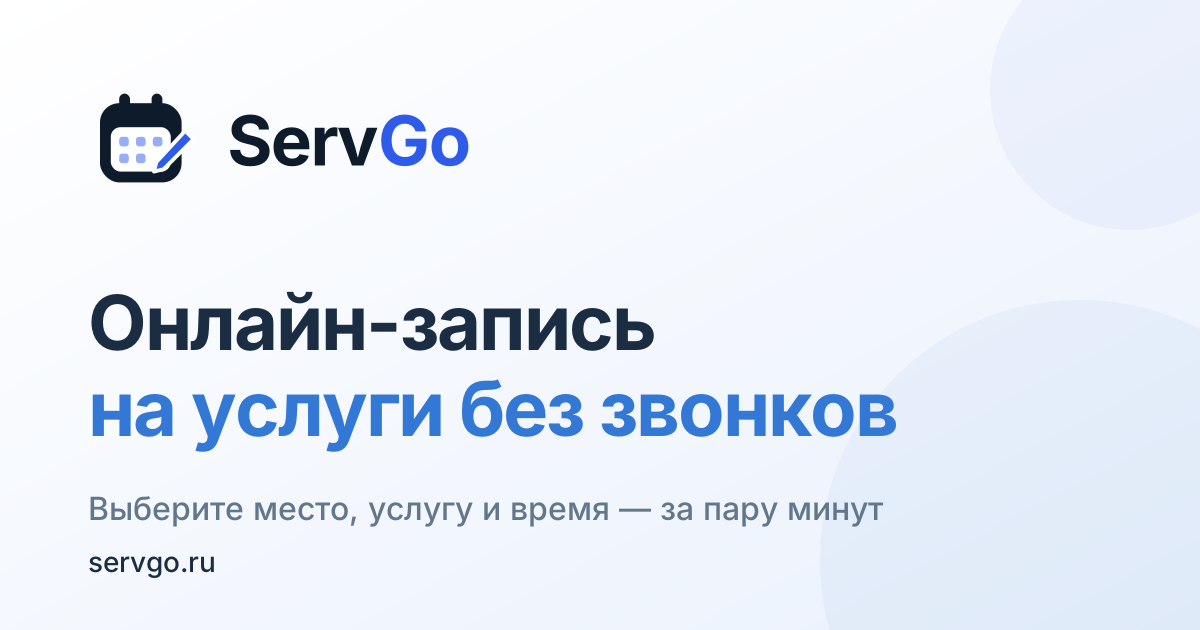
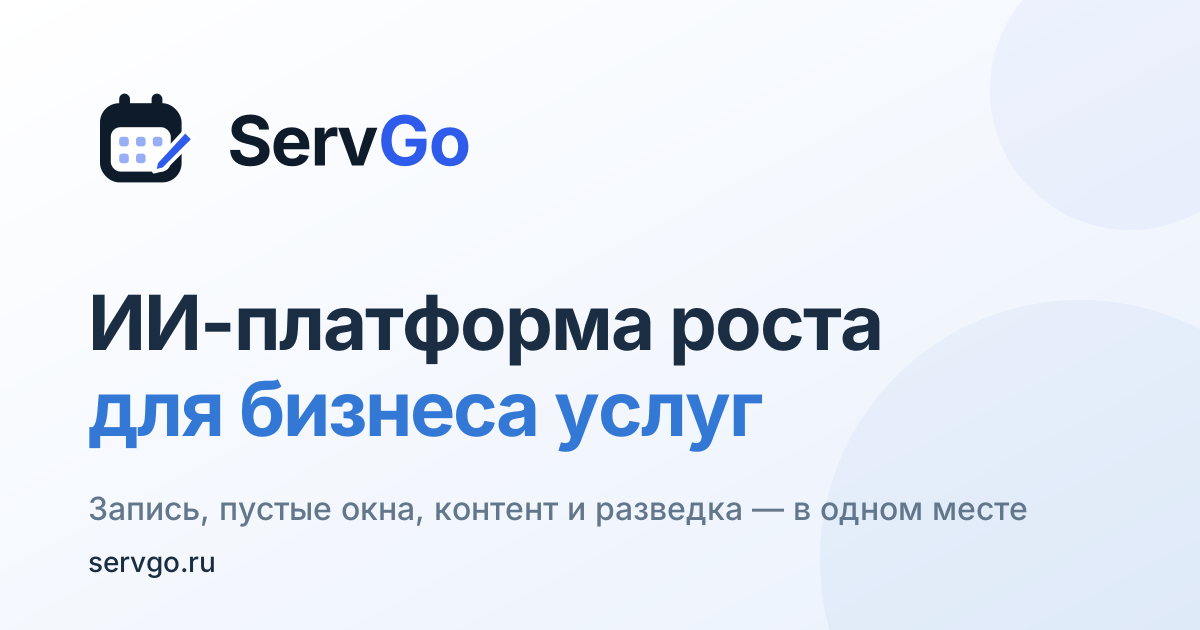
SEO: AI growth platform positioning, demo pages indexable, sitemap generator
- homepage title/description/OG/JSON-LD and crawlable text describe ServGo as an
  AI growth platform for service businesses (booking, empty slots, content,
  comment replies, competitive intelligence, growth experiments, analytics)
- homepage footer: short platform pitch above niche presentations
- demo/example business pages are indexable again (owner's decision)
- scripts/ops/servgo_sitemap.py builds sitemap.xml from the live business list,
  atomic write, keeps previous file on API errors; sitemap.xml regenerated with
  all 9 businesses until the server-side hourly job is installed
- new share image text

Claude-Session: https://claude.ai/code/session_016HQVcGasUBpwFtnksf2DjM

Changed region(s): [[0.0617, 0.4524, 0.74, 0.573], [0.0617, 0.6032, 0.7708, 0.7238], [0.0617, 0.7841, 0.8633, 0.8444]]

diff --git a/web/frontend/index.html b/web/frontend/index.html
@@ -3,17 +3,17 @@
   <head>
     <meta charset="UTF-8" />
     <meta name="yandex-verification" content="24c86f64d4a09338" />
-    <meta name="description" content="ServGo — онлайн-запись на услуги без звонков. Выберите салон или студию, услугу и удобное время за пару минут." />
+    <meta name="description" content="ServGo — онлайн-запись без звонков и ИИ-платформа роста для бизнеса услуг: заполняет пустые окна, создаёт контент, отвечает клиентам и изучает конкурентов." />
     <meta name="robots" content="index, follow" />
     <meta property="og:type" content="website" />
     <meta property="og:site_name" content="ServGo" />
     <meta property="og:locale" content="ru_RU" />
-    <meta property="og:title" content="ServGo — онлайн-запись на услуги без звонков" />
-    <meta property="og:description" content="Выберите место, услугу и удобное время — запись за пару минут, напоминания о визите." />
+    <meta property="og:title" content="ServGo — ИИ-платформа роста для бизнеса услуг и онлайн-запись" />
+    <meta property="og:description" content="Онлайн-запись, заполнение пустых окон, ИИ-контент, ответы клиентам и разведка конкурентов — всё для роста бизнеса услуг в одном месте." />
     <meta property="og:image" content="https://servgo.ru/og-image.png" />
     <meta property="og:image:width" content="1200" />
     <meta property="og:image:height" content="630" />
-    <meta property="og:image:alt" content="ServGo — онлайн-запись на услуги без звонков" />
+    <meta property="og:image:alt" content="ServGo — ИИ-платформа роста для бизнеса услуг и онлайн-запись" />
     <meta name="twitter:card" content="summary_large_image" />
     <link rel="icon" type="image/svg+xml" href="/favicon.svg" />
     <meta name="viewport" content="width=device-width, initial-scale=1.0, viewport-fit=cover" />
@@ -27,7 +27,7 @@
     <!-- Не блокируем первую отрисовку, если Google Fonts медленный или недоступен. -->
     <link rel="stylesheet" href="https://fonts.googleapis.com/css2?family=Onest:wght@300;350;400;450;500;550;600;700&display=swap" media="print" onload="this.media='all'" />
     <noscript><link rel="stylesheet" href="https://fonts.googleapis.com/css2?family=Onest:wght@300;350;400;450;500;550;600;700&display=swap" /></noscript>
-    <title>ServGo — онлайн-запись на услуги без звонков</title>
+    <title>ServGo — ИИ-платформа роста для бизнеса услуг и онлайн-запись</title>
     <script src="https://telegram.org/js/telegram-web-app.js" async></script>
     <script type="application/ld+json">
       {
@@ -42,6 +42,7 @@
           {
             "@type": "Organization",
             "name": "ServGo",
+            "description": "ИИ-платформа роста для бизнеса услуг: онлайн-запись, заполнение пустых окон, контент, ответы клиентам, бизнес-разведка и аналитика.",
             "url": "https://servgo.ru/",
             "logo": "https://servgo.ru/og-image.png",
             "email": "grunvaldlab@gmail.com",
@@ -56,7 +57,8 @@
       .seo-shell h1 span{color:#3478d6}
       .seo-shell h2{font-size:18px;font-weight:600;margin:28px 0 8px}
       .seo-shell p,.seo-shell li{font-size:16px;line-height:1.5;color:#62778b;margin:0 0 8px}
-      .seo-shell ol{padding-left:22px;margin:0}
+      .seo-shell ul{padding-left:20px;margin:0}
+      .seo-shell b{color:#1b2d42;font-weight:600}
       .seo-shell a{color:#3478d6}
     </style>
   </head>
@@ -64,16 +66,21 @@
     <!-- Содержимое ниже видят поисковики и пользователи без JavaScript; React заменяет его при запуске. -->
     <div id="root">
       <main class="seo-shell">
-        <h1>Онлайн-запись <span>на услуги</span></h1>
-        <p>ServGo — сервис онлайн-записи без звонков. Выберите салон, студию или специалиста, нужную услугу и удобное время — запись займёт пару минут, а напоминание придёт заранее.</p>
-        <h2>Как записаться</h2>
-        <ol>
-          <li>Выберите место для записи на главной странице.</li>
-          <li>Отметьте услугу, специалиста и свободное время.</li>
-          <li>Подтвердите запись — перенести или отменить её можно онлайн.</li>
-        </ol>
-        <h2>ServGo для бизнеса</h2>
-        <p>Онлайн-запись для салонов красоты, барбершопов, массажных кабинетов, психологов, автосервисов и аренды: расписание сотрудников, напоминания клиентам, аналитика и предоплата.</p>
+        <h1>ИИ-платформа роста <span>для бизнеса услуг</span></h1>
+        <p>ServGo — больше, чем онлайн-запись. Это команда ИИ-помощников, которая каждый день работает на рост вашего бизнеса: приводит клиентов, заполняет расписание, ведёт соцсети и подсказывает, что делать дальше.</p>
+        <h2>Что делает ServGo</h2>
+        <ul>
+          <li><b>Онлайн-запись 24/7.</b> Клиенты записываются сами, без звонков: напоминания, перенос и предоплата — онлайн.</li>
+          <li><b>Заполняет пустые окна.</b> ИИ видит свободное время в расписании и предлагает его нужным клиентам в нужный момент.</li>
+          <li><b>Создаёт контент.</b> Посты, сценарии коротких видео и ответы на комментарии в Telegram, ВКонтакте и YouTube — голосом вашего бренда.</li>
+          <li><b>Бизнес-разведка.</b> Собирает отзывы, слабые места и цены конкурентов и превращает их в конкретные идеи для роста.</li>
+          <li><b>Эксперименты роста.</b> Ставит гипотезы, запускает, считает результат и масштабирует то, что приносит деньги.</li>
+          <li><b>Аналитика.</b> Выручка, загрузка мастеров и источники клиентов — на одном экране.</li>
+        </ul>
+        <h2>Для кого</h2>
+        <p>Салоны красоты, барбершопы, массаж, психологи, автосервисы, аренда площадок и техники — любой бизнес, который живёт записью.</p>
+        <h2>Клиентам</h2>
+        <p>Выберите место, услугу и удобное время — запись займёт пару минут, а напоминание придёт заранее. На сайте есть примеры и демо — посмотрите, как работает запись.</p>
         <p>Связаться: <a href="mailto:grunvaldlab@gmail.com">grunvaldlab@gmail.com</a>, <a href="tel:+79023911399">8 902 391-13-99</a></p>
       </main>
     </div>

diff --git a/web/frontend/src/utils/seo.ts b/web/frontend/src/utils/seo.ts
@@ -3,14 +3,9 @@
 
 export const SITE_URL = 'https://servgo.ru'
 
-export const DEFAULT_TITLE = 'ServGo — онлайн-запись на услуги без звонков'
+export const DEFAULT_TITLE = 'ServGo — ИИ-платформа роста для бизнеса услуг и онлайн-запись'
 export const DEFAULT_DESCRIPTION =
-  'ServGo — онлайн-запись на услуги без звонков. Выберите салон или студию, услугу и удобное время за пару минут.'
-
-// Примеры и демо-витрины не индексируем, чтобы не засорять выдачу.
-export function isDemoBusinessName(name?: string | null): boolean {
-  return !!name && /пример|демо|demo|example/i.test(name)
-}
+  'ServGo — онлайн-запись без звонков и ИИ-платформа роста для бизнеса услуг: заполняет пустые окна, создаёт контент, отвечает клиентам и изучает конкурентов.'
 
 function setMeta(attr: 'name' | 'property', key: string, content: string) {
   let el = document.head.querySelector<HTMLMetaElement>(`meta[${attr}="${key}"]`)

diff --git a/web/frontend/src/pages/client/BusinessPage.tsx b/web/frontend/src/pages/client/BusinessPage.tsx
@@ -4,7 +4,7 @@ import { MapPin, Phone, Clock, Navigation, DoorOpen, X, ChevronRight, ArrowRight
 import { api, type BusinessDetail, type EmployeeWithPricing } from '../../api/client'
 import { AirFrame, HeroArt } from './AirFrame'
 import { parsePhotoList, photoSrc } from './airPhotos'
-import { applySeo, isDemoBusinessName, shortText } from '../../utils/seo'
+import { applySeo, shortText } from '../../utils/seo'
 
 function linkifyText(text: string): ReactNode {
   const urlPattern = /(https?:\/\/[^\s]+|(?:vk\.com|t\.me)\/[^\s]+)/gi
@@ -104,7 +104,6 @@ export function BusinessPage() {
       path,
       title: `${business.name} — онлайн-запись | ServGo`,
       description: shortText(business.description?.trim() || fallback),
-      noindex: isDemoBusinessName(business.name),
     })
   }, [id, business, error])
 

diff --git a/web/frontend/src/pages/client/HomePage.tsx b/web/frontend/src/pages/client/HomePage.tsx
@@ -114,6 +114,10 @@ export function HomePage() {
 
           <footer className="bf-foot">
             <div className="bf-kicker">ServGo для бизнеса</div>
+            <p className="bf-foot-pitch">
+              ИИ-платформа роста для бизнеса услуг: онлайн-запись, заполнение пустых окон, контент и ответы клиентам
+              в соцсетях, разведка конкурентов и аналитика — в одном месте.
+            </p>
             <nav className="bf-chips" aria-label="Презентации ServGo по нишам">
               {nichePresentations.map((item) => (
                 <a key={item.href} href={item.href} target="_blank" rel="noopener noreferrer" className="bf-chip">{item.label}</a>

diff --git a/web/frontend/src/pages/client/booking-flow.css b/web/frontend/src/pages/client/booking-flow.css
@@ -337,6 +337,7 @@ textarea.bf-input { height: auto; min-height: 40px; resize: vertical; }
 .bf-foot { margin-top: 22px; padding-top: 4px; border-top: 1px solid var(--bf-line); }
 .bf-chips { display: flex; flex-wrap: wrap; gap: 6px; margin-top: 6px; }
 .bf-chip { display: inline-flex; align-items: center; min-height: 32px; padding: 6px 11px; border-radius: 16px; background: #f5f8fc; color: #2d4d74; font-size: 11.5px; text-decoration: none; }
+.bf-foot-pitch { margin: 8px 0 12px; color: var(--bf-soft-ink); font-size: 12.5px; line-height: 1.5; }
 .bf-contacts { display: flex; flex-direction: column; gap: 4px; margin-top: 14px; font-size: 12.5px; }
 .bf-contacts span { font-size: 10px; color: var(--bf-muted); }
 .bf-contacts a { color: var(--bf-blue-deep); text-decoration: none; font-weight: 500; }

diff --git a/scripts/ops/servgo_sitemap.py b/scripts/ops/servgo_sitemap.py
@@ -1,0 +1,81 @@
+#!/usr/bin/env python3
+"""Генерация sitemap.xml для servgo.ru из живого списка бизнесов.
+
+Запускается на сервере по cron (см. .github/workflows/servgo-sitemap-install.yml):
+берёт активные бизнесы из локального API и атомарно перезаписывает
+web/frontend/dist/sitemap.xml, который nginx отдаёт как статику.
+
+Только стандартная библиотека — запускается системным python3.
+Если API недоступен или ответ странный, существующий sitemap не трогаем.
+"""
+from __future__ import annotations
+
+import argparse
+import json
+import os
+import sys
+import tempfile
+import urllib.request
+from datetime import datetime, timezone
+from xml.sax.saxutils import escape
+
+SITE_URL = "https://servgo.ru"
+DEFAULT_API_URL = "http://127.0.0.1:8000/businesses"
+DEFAULT_OUT = "/opt/booking_bot/web/frontend/dist/sitemap.xml"
+
+
+def fetch_business_ids(api_url: str, timeout: float = 15.0) -> list[int]:
+    with urllib.request.urlopen(api_url, timeout=timeout) as resp:
+        data = json.loads(resp.read().decode("utf-8"))
+    if not isinstance(data, list):
+        raise ValueError("API returned non-list payload")
+    ids = sorted({int(item["id"]) for item in data if isinstance(item, dict) and str(item.get("id", "")).isdigit()})
+    return ids
+
+
+def build_sitemap(business_ids: list[int], today: str) -> str:
+    rows = [(f"{SITE_URL}/", "daily", "1.0")]
+    rows += [(f"{SITE_URL}/business/{bid}", "weekly", "0.8") for bid in business_ids]
+    parts = ['<?xml version="1.0" encoding="UTF-8"?>', '<urlset xmlns="http://www.sitemaps.org/schemas/sitemap/0.9">']
+    for loc, freq, prio in rows:
+        parts.append(
+            f"  <url><loc>{escape(loc)}</loc><lastmod>{today}</lastmod>"
+            f"<changefreq>{freq}</changefreq><priority>{prio}</priority></url>"
+        )
+    parts.append("</urlset>")
+    return "\n".join(parts) + "\n"
+
+
+def write_atomic(path: str, content: str) -> None:
+    directory = os.path.dirname(path) or "."
+    fd, tmp = tempfile.mkstemp(prefix=".sitemap.", dir=directory)
+    try:
+        with os.fdopen(fd, "w", encoding="utf-8") as f:
+            f.write(content)
+        os.chmod(tmp, 0o644)
+        os.replace(tmp, path)
+    except BaseException:
+        if os.path.exists(tmp):
+            os.unlink(tmp)
+        raise
+
+
+def main(argv: list[str] | None = None) -> int:
+    parser = argparse.ArgumentParser(description=__doc__)
+    parser.add_argument("--api-url", default=DEFAULT_API_URL)
+    parser.add_argument("--out", default=DEFAULT_OUT)
+    args = parser.parse_args(argv)
+
+    stamp = datetime.now(timezone.utc)
+    try:
+        ids = fetch_business_ids(args.api_url)
+    except Exception as exc:  # noqa: BLE001 — любой сбой: оставляем прежний файл
+        print(f"{stamp:%Y-%m-%dT%H:%M:%SZ} sitemap: API error, keeping previous file: {exc}", file=sys.stderr)
+        return 1
+    write_atomic(args.out, build_sitemap(ids, stamp.strftime("%Y-%m-%d")))
+    print(f"{stamp:%Y-%m-%dT%H:%M:%SZ} sitemap: written {len(ids) + 1} urls to {args.out}")
+    return 0
+
+
+if __name__ == "__main__":
+    sys.exit(main())

diff --git a/tests/test_servgo_sitemap.py b/tests/test_servgo_sitemap.py
@@ -1,0 +1,42 @@
+"""Генератор sitemap.xml из живого списка бизнесов (scripts/ops/servgo_sitemap.py)."""
+import importlib.util
+import json
+import xml.etree.ElementTree as ET
+from pathlib import Path
+
+SCRIPT = Path(__file__).resolve().parents[1] / "scripts" / "ops" / "servgo_sitemap.py"
+spec = importlib.util.spec_from_file_location("servgo_sitemap", SCRIPT)
+sm = importlib.util.module_from_spec(spec)
+spec.loader.exec_module(sm)
+NS = {"s": "http://www.sitemaps.org/schemas/sitemap/0.9"}
+
+
+def test_build_sitemap_lists_home_and_every_business_including_demo():
+    xml = sm.build_sitemap([11, 6, 8], "2026-10-18")
+    locs = [e.text for e in ET.fromstring(xml).findall("s:url/s:loc", NS)]
+    assert locs[0] == "https://servgo.ru/"
+    assert set(locs[1:]) == {f"https://servgo.ru/business/{i}" for i in (6, 8, 11)}
+
+
+def test_main_writes_file_from_api(tmp_path, monkeypatch):
+    api = tmp_path / "businesses.json"
+    api.write_text(json.dumps([{"id": 6, "name": "Студия"}, {"id": 8, "name": "Массаж (ПРИМЕР)"}]), encoding="utf-8")
+    out = tmp_path / "sitemap.xml"
+    assert sm.main(["--api-url", api.as_uri(), "--out", str(out)]) == 0
+    assert "https://servgo.ru/business/8" in out.read_text(encoding="utf-8")
+
+
+def test_main_keeps_previous_file_when_api_fails(tmp_path):
+    out = tmp_path / "sitemap.xml"
+    out.write_text("PREVIOUS", encoding="utf-8")
+    assert sm.main(["--api-url", "http://127.0.0.1:9/none", "--out", str(out)]) == 1
+    assert out.read_text(encoding="utf-8") == "PREVIOUS"
+
+
+def test_main_rejects_non_list_payload(tmp_path):
+    api = tmp_path / "bad.json"
+    api.write_text('{"detail": "error"}', encoding="utf-8")
+    out = tmp_path / "sitemap.xml"
+    out.write_text("PREVIOUS", encoding="utf-8")
+    assert sm.main(["--api-url", api.as_uri(), "--out", str(out)]) == 1
+    assert out.read_text(encoding="utf-8") == "PREVIOUS"
